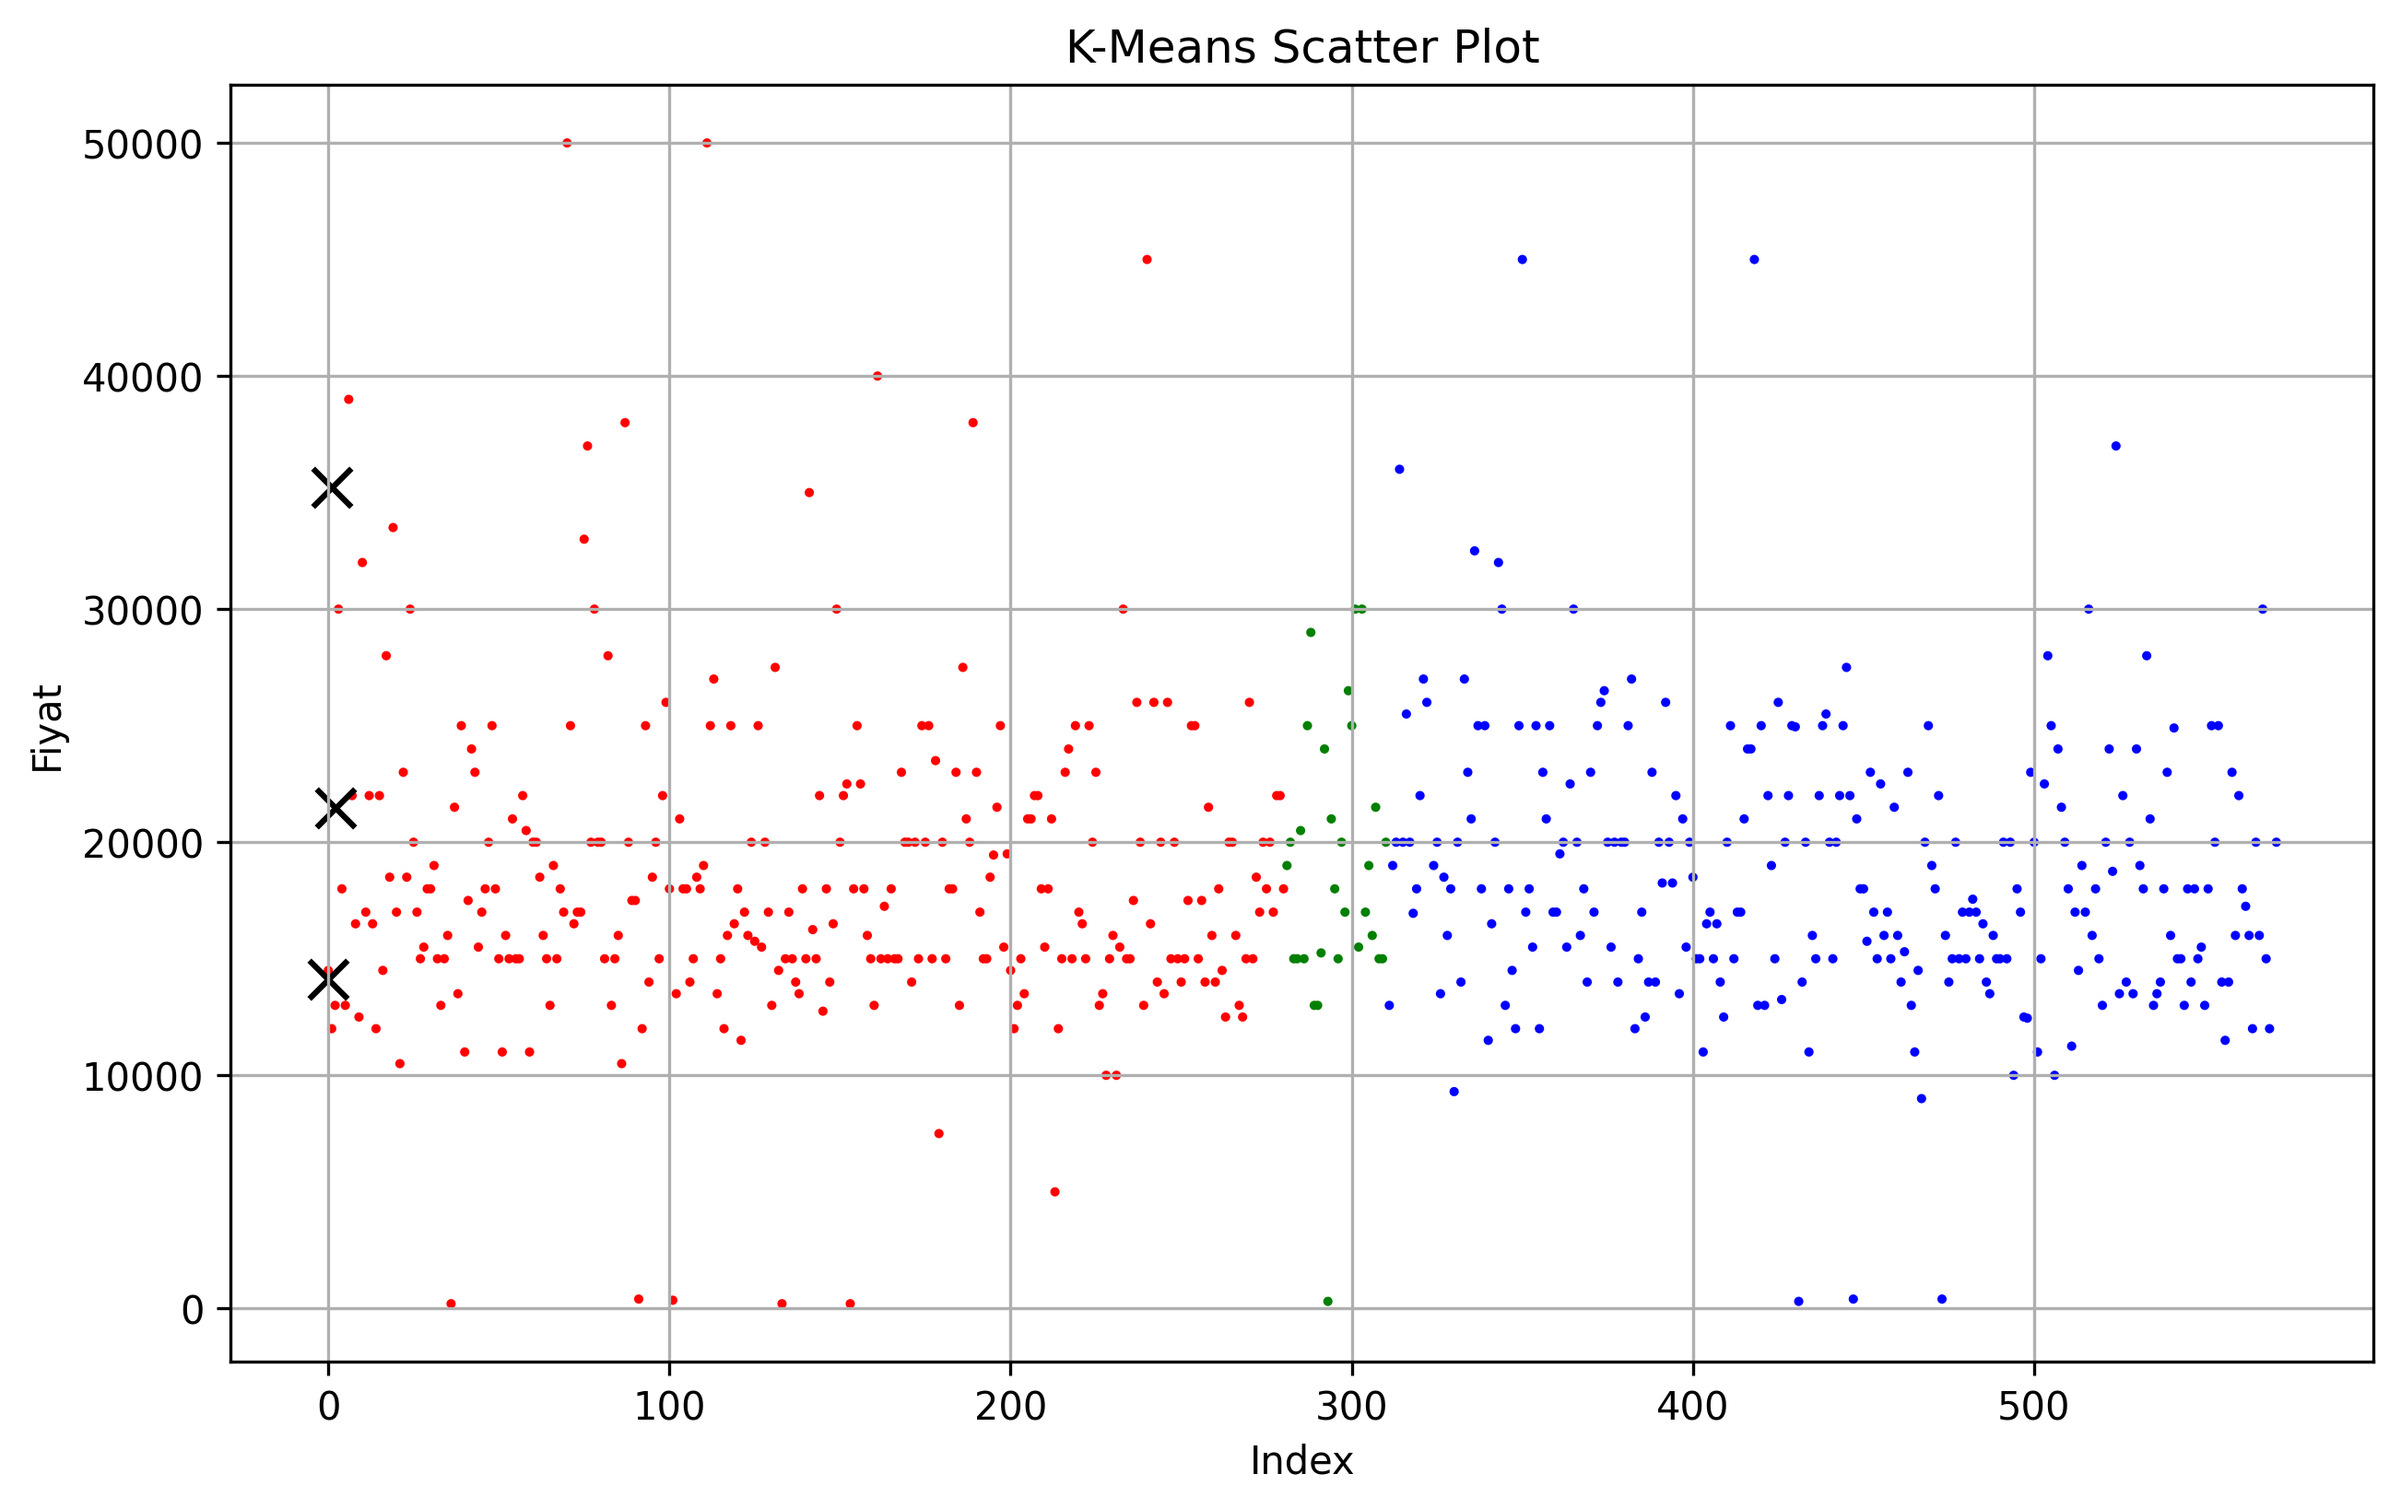
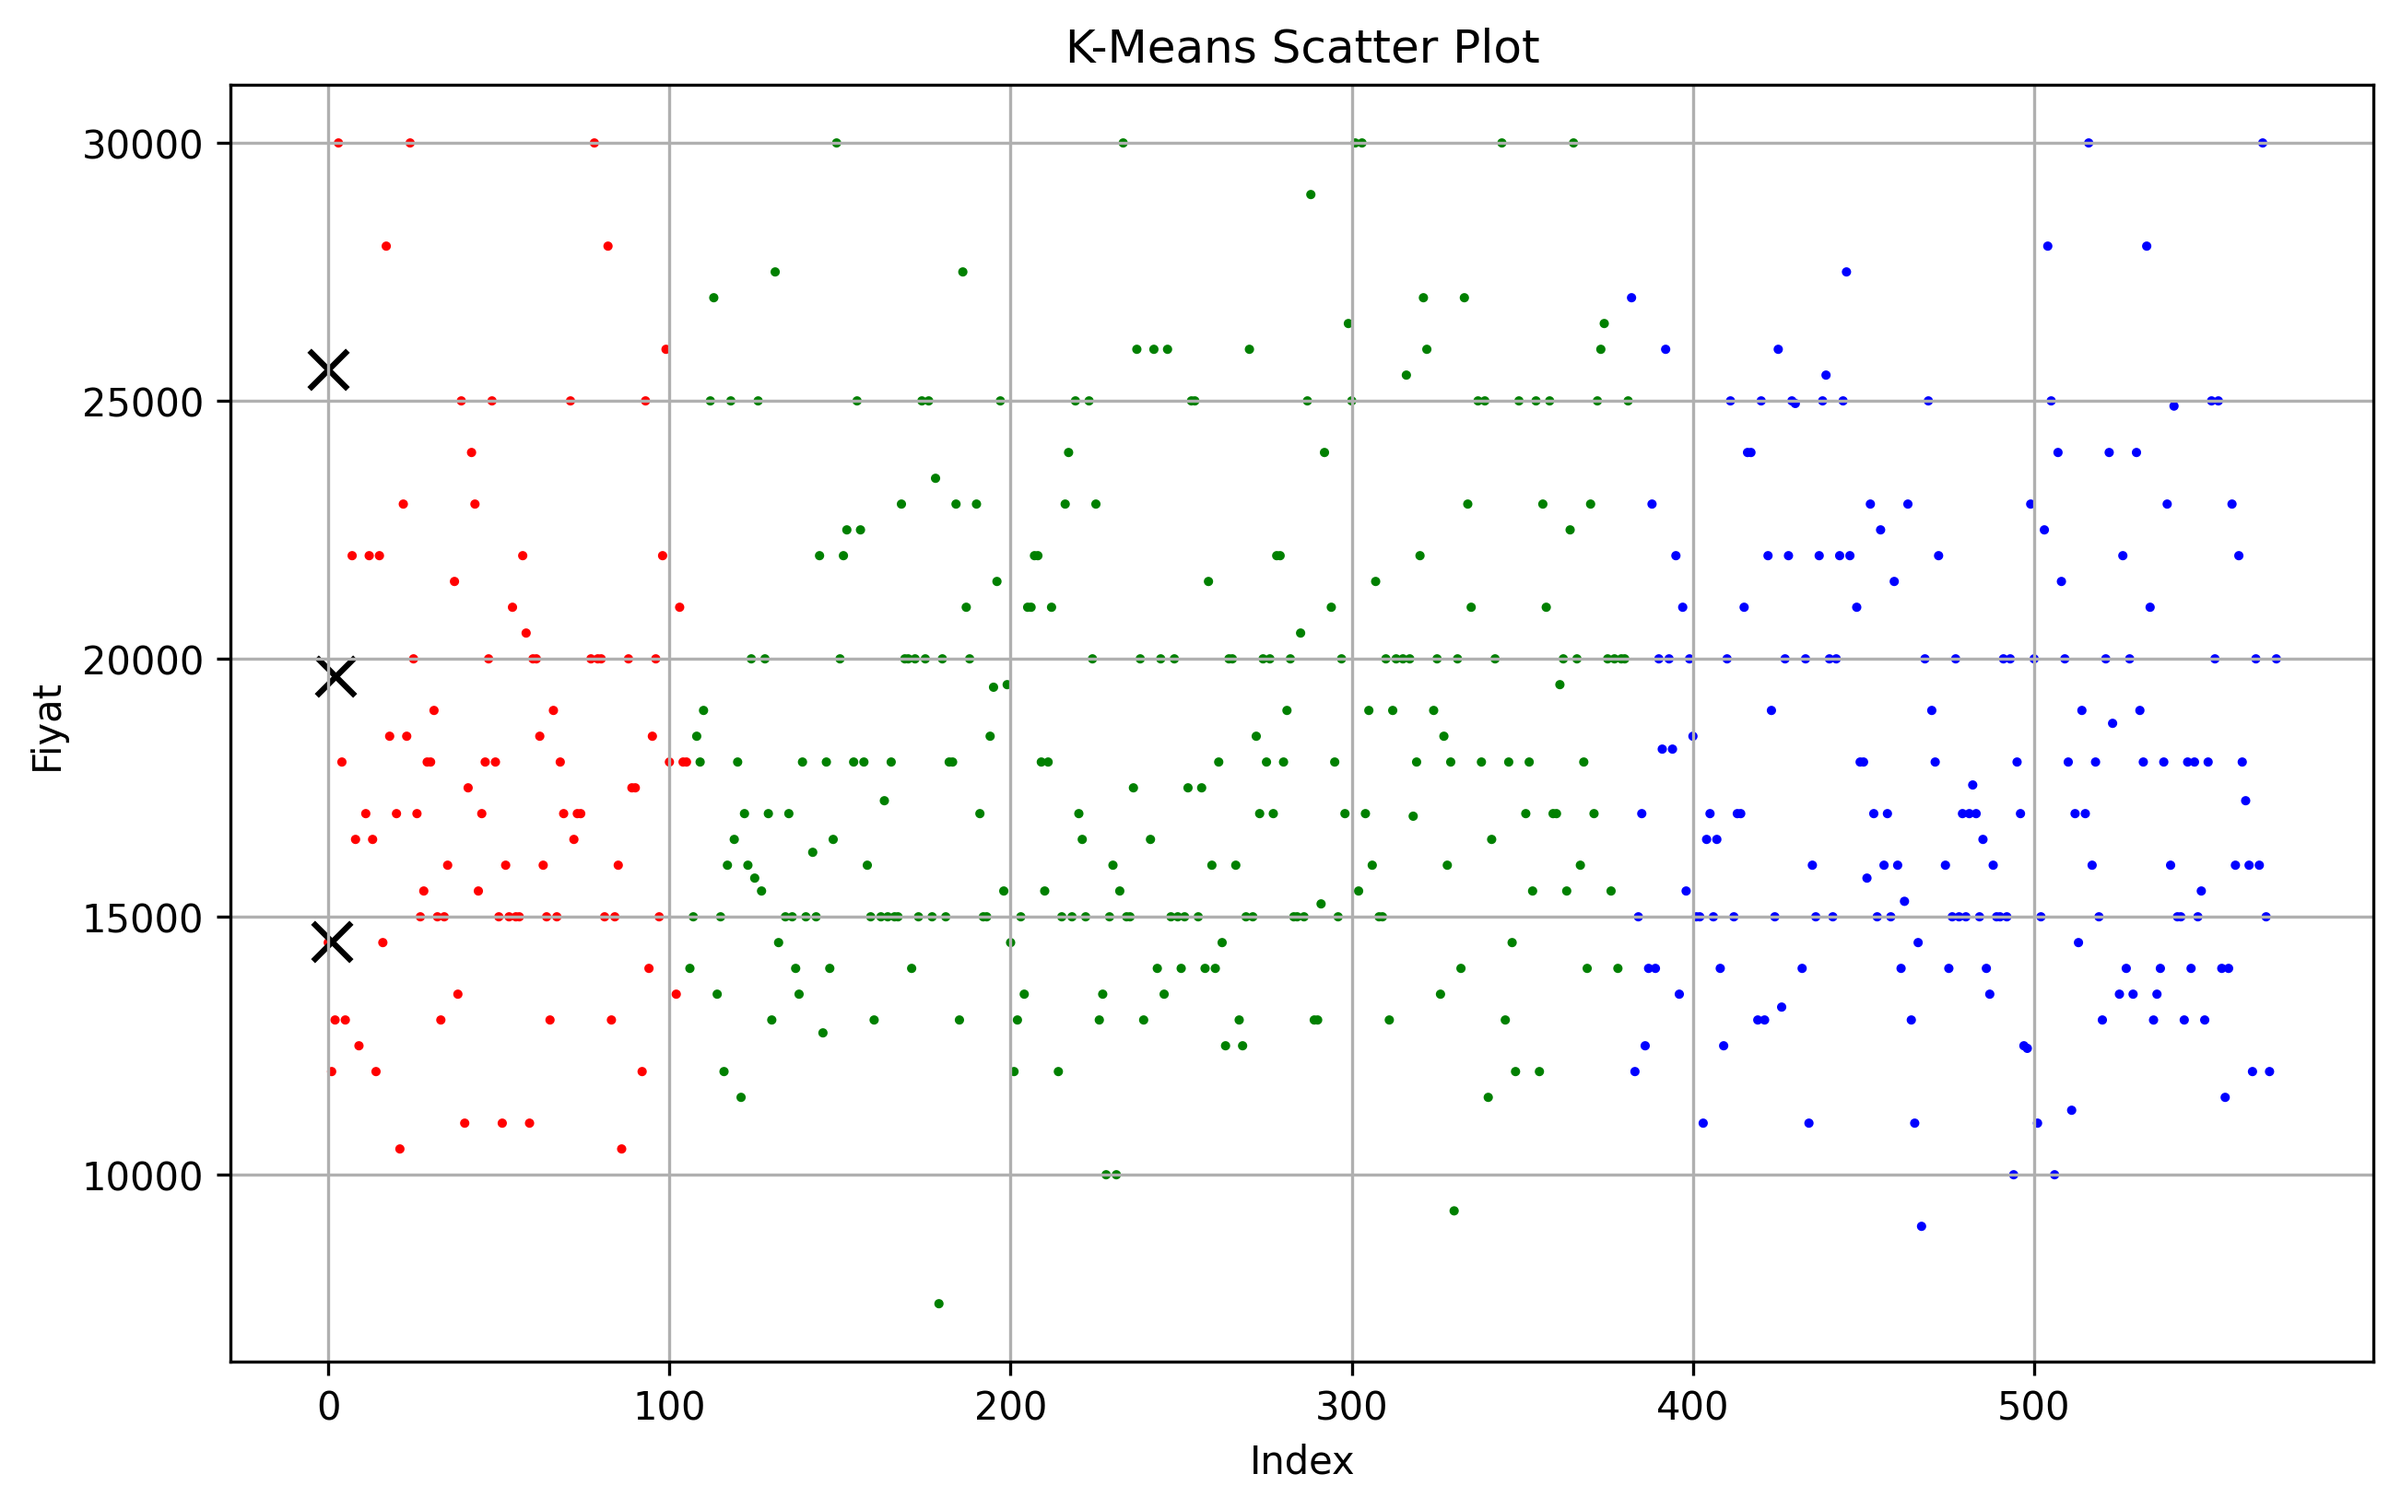
New Plots

diff --git a/Assignment_2/main.py b/Assignment_2/main.py
@@ -15,6 +15,8 @@ df = pd.read_excel("ham_veri.xlsx")
 # pd.reset_option("display.max_rows")
 # pd.reset_option("display.max_columns")
 
+########## Veri Temizleme ##########
+
 # Duplikeleri Link sütununa göre tespit et ve yazdır
 duplikeler = df[df.duplicated(subset="Link", keep="first")]
 print("Duplikeler (aynı linke sahip satırlar): ", len(duplikeler))
@@ -25,8 +27,7 @@ bos_fiyatlar = df[df["Fiyat"].isna()]
 print("\nBoş Fiyatı Olan Satırlar:", len(bos_fiyatlar))
 print(bos_fiyatlar[["Başlık", "Fiyat", "Link"]])
 
-# Temizlik işlemleri
-# Aynı linke sahip satırları kaldır
+# Duplikeleri kaldır
 df = df.drop_duplicates(subset="Link", keep="first")
 
 # Fiyatı olmayan satırları kaldır
@@ -44,43 +45,44 @@ df["Fiyat"] = df["Fiyat"].astype(str).str.replace(r"\D", "", regex=True).astype(
 # print("\nSadece index ve fiyatı içeren 'temizlenmiş_veri_0.xlsx' dosyası oluşturuldu.")
 # df.reset_index()[["index", "Fiyat"]].to_excel("temizlenmiş_veri_0.xlsx", index=False)
 
-# Outlierları tespit etmeye ve kaldırmaya başla
+########## Outlier Tespiti ##########
 
 # IQR yöntemi
 
 # Çeyrek değerleri hesapla
-#Q1 = df["Fiyat"].quantile(0.25)
-#Q3 = df["Fiyat"].quantile(0.75)
-#IQR = Q3 - Q1
-#
-## Outlier sınırlarını belirle
-#lower_bound = Q1 - 1.5 * IQR
-#upper_bound = Q3 + 1.5 * IQR
-#
-## Outlierları seç
-#outliers = df[(df["Fiyat"] < lower_bound) | (df["Fiyat"] > upper_bound)]
-#print("\nOutlierlar (IQR yöntemi):")
-#print(outliers[["Fiyat"]])
-#
-## Outlierları kaldır
-#df = df[(df["Fiyat"] >= lower_bound) & (df["Fiyat"] <= upper_bound)]
+Q1 = df["Fiyat"].quantile(0.25)
+Q3 = df["Fiyat"].quantile(0.75)
+IQR = Q3 - Q1
 
-# Z-Score yöntemi
+# Outlier sınırlarını belirle
+lower_bound = Q1 - 1.5 * IQR
+upper_bound = Q3 + 1.5 * IQR
 
-# Fiyat sütununu z-score'a çevir
-df["Z-Score"] = (df["Fiyat"] - df["Fiyat"].mean()) / df["Fiyat"].std()
-
-z_score_modifier = 3
-
-# Z-Score değeri 3'ten büyük veya -3'ten küçük olan satırları seç
-outliers = df[(df["Z-Score"] > z_score_modifier) | (df["Z-Score"] < -z_score_modifier)]
-print("\nOutlierlar (Z-Score yöntemi):")
+# Outlierları seç
+outliers = df[(df["Fiyat"] < lower_bound) | (df["Fiyat"] > upper_bound)]
+print("\nOutlierlar (IQR yöntemi):")
 print(outliers[["Fiyat"]])
 
 # Outlierları kaldır
-df = df[(df["Z-Score"] <= z_score_modifier) & (df["Z-Score"] >= -z_score_modifier)]
+df = df[(df["Fiyat"] >= lower_bound) & (df["Fiyat"] <= upper_bound)]
 
-# K-Means algoritmasına başla
+# Z-Score yöntemi
+
+## Fiyat sütununu z-score'a çevir
+#df["Z-Score"] = (df["Fiyat"] - df["Fiyat"].mean()) / df["Fiyat"].std()
+#
+#z_score_modifier = 3
+#
+## Z-Score değeri 3'ten büyük veya -3'ten küçük olan satırları seç
+#outliers = df[(df["Z-Score"] > z_score_modifier) | (df["Z-Score"] < -z_score_modifier)]
+#print("\nOutlierlar (Z-Score yöntemi):")
+#print(outliers[["Fiyat"]])
+#
+## Outlierları kaldır
+#df = df[(df["Z-Score"] <= z_score_modifier) & (df["Z-Score"] >= -z_score_modifier)]
+
+########## K-Means ##########
+
 k = 3
 
 # Veri kümesindeki fiyat sütununu al.
@@ -136,7 +138,7 @@ while True:
 # print("\nMerkezler:")
 # print(merkezler)
 
-# Kümeleri ve merkezleri görselleştirmeye başla
+########## Plot ##########
 
 # Plot oluştur
 plt.figure(figsize=(10, 6), dpi=300)
@@ -175,15 +177,7 @@ plt.grid(True)
 x_values = df.index
 
 # Veri kümesindeki fiyat değerlerini y ekseninde göstermek için al
-y_values = fiyatlar
-
-## Y eksenindeki değerlerin 1000'er 1000'er artması için aralıkları ayarla
-#y_min, y_max = int(min(y_values)), int(max(y_values))
-#
-##y_min'i en yakın 1000'e yuvarla
-#y_min = y_min - y_min % 1000
-#
-#plt.yticks(range(y_min, y_max + 1000, 1000))
+y_values = df["Fiyat"]
 
 # Her küme için farklı renkler belirle
 colors = ["red", "green", "blue"]
@@ -216,7 +210,7 @@ plt.ylabel("Fiyat")
 plt.grid(True)
 
 # Kümeleri çiz
-plt.boxplot(kümeler, patch_artist=True, showmeans=True)
+plt.boxplot(kümeler, patch_artist=True, showmeans=True, showfliers=False)
 
 # Box plot'u kaydet
 plt.savefig("box_plot.png", dpi=300, bbox_inches='tight')
